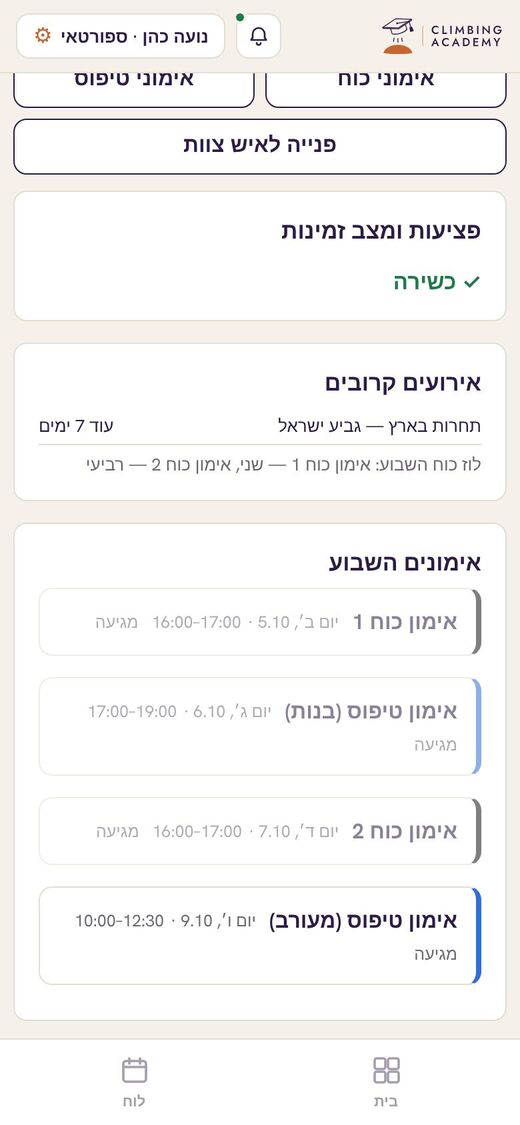
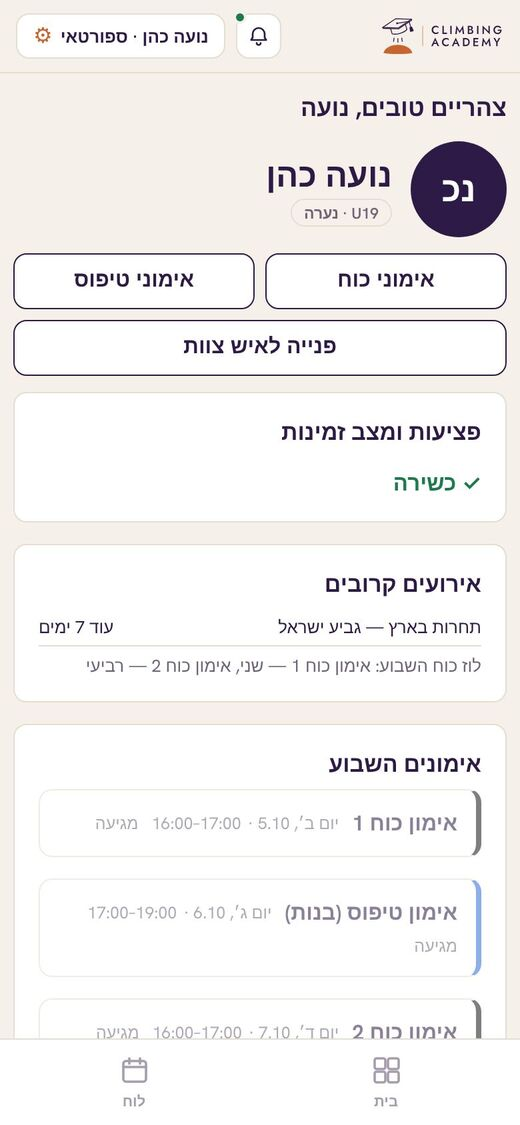
Site: 'try it' cards redesigned for desktop (large crisp screenshot on top, button), centered heading; athlete shot from the top of the screen
Claude-Session: https://claude.ai/code/session_01EyUwJFUS123xTm3Yd6dZgp

diff --git a/style.css b/style.css
@@ -92,6 +92,7 @@ p { margin: 0; }
 .pillar { display: grid; grid-template-columns: 72px 1fr; align-items: center; column-gap: 24px; background: var(--card); border: 1px solid var(--border); border-radius: var(--radius); padding: 22px 28px; transition: transform .25s ease, box-shadow .25s ease; }
 .pillar:hover { transform: translateY(-2px); box-shadow: var(--shadow); }
 .try-card:hover { transform: translateY(-3px); box-shadow: 0 2px 4px rgba(20, 36, 59, .06), 0 14px 32px rgba(20, 36, 59, .1); }
+.try-card:hover .try-go { border-color: var(--navy); }
 .pillar-letter { grid-row: span 2; font-family: var(--font-brand); font-size: 60px; font-weight: 500; line-height: 1; color: var(--copper); text-align: center; }
 .js .pillar-letter { color: #E6D6C6; transition: color .6s ease; }
 .js .pillar.is-lit .pillar-letter { color: var(--copper); }
@@ -120,19 +121,27 @@ p { margin: 0; }
   .fw-cta { display: inline-flex; }
 }
 
-/* try it: links to the animated demos (2026-10-10) */
+/* try it: links to the animated demos (2026-10-10). Phone: screenshot beside the text; wider: screenshot on top. */
+.try-head { text-align: center; margin-inline: auto; }
+.try-head .section-sub { text-wrap: balance; }
 .tries { display: grid; gap: 20px; }
-@media (min-width: 760px) { .tries { grid-template-columns: 1fr 1fr; gap: 24px; } }
-.try-card { display: grid; grid-template-columns: 120px 1fr; gap: 18px; align-items: center; background: var(--card); border: 1px solid var(--border); border-radius: 18px; padding: 16px; text-decoration: none; box-shadow: var(--shadow); transition: transform .25s ease, box-shadow .25s ease; }
+.try-card { display: grid; grid-template-columns: 120px 1fr; gap: 18px; align-items: center; background: var(--card); border: 1px solid var(--border); border-radius: 18px; padding: 16px; text-decoration: none; color: var(--navy); box-shadow: var(--shadow); overflow: hidden; transition: transform .25s ease, box-shadow .25s ease; }
 .try-card:focus-visible { outline: 3px solid var(--copper); outline-offset: 3px; }
 .try-shot img { width: 100%; height: auto; aspect-ratio: 520 / 700; object-fit: cover; object-position: top; border-radius: 12px; border: 1px solid var(--border); }
 .try-body { display: flex; flex-direction: column; gap: 4px; min-width: 0; }
 .try-tag { align-self: flex-start; font-size: 13px; font-weight: 700; color: var(--copper-text); background: #F6EADF; border-radius: 999px; padding: 2px 12px; }
 .try-title { font-size: 20px; font-weight: 800; line-height: 1.3; margin-top: 4px; }
 .try-text { color: var(--muted); font-size: 15.5px; line-height: 1.5; }
-.try-go { margin-top: 8px; font-weight: 700; color: var(--navy); }
-@media (min-width: 1000px) { .try-card { grid-template-columns: 150px 1fr; padding: 20px; gap: 24px; } }
-.try-note { margin-top: 18px; text-align: center; font-size: 13.5px; color: var(--muted); }
+.try-go { align-self: flex-start; margin-top: 10px; }
+@media (min-width: 760px) {
+  .tries { grid-template-columns: 1fr 1fr; gap: 24px; max-width: 920px; margin-inline: auto; }
+  .try-card { grid-template-columns: 1fr; gap: 0; padding: 0; align-items: stretch; }
+  .try-shot { display: flex; justify-content: center; height: 300px; overflow: hidden; padding: 32px 32px 0; background: #EFE9DF; border-bottom: 1px solid var(--border); }
+  .try-shot img { width: 260px; aspect-ratio: auto; border-radius: 18px 18px 0 0; border-bottom: 0; box-shadow: 0 20px 40px -24px rgba(20, 36, 59, .35); }
+  .try-body { padding: 24px 28px 28px; gap: 6px; }
+  .try-title { font-size: 22px; }
+  .try-text { font-size: 16px; }
+}
 .case-link { align-self: flex-start; margin-top: 18px; font-weight: 700; color: var(--navy); text-decoration: none; border-bottom: 1.5px solid var(--copper); }
 
 /* dark band */

diff --git a/index.html b/index.html
@@ -144,32 +144,31 @@
   <!-- TRY IT: the real academy system (2026-10-10) -->
   <section id="try" class="section">
     <div class="wrap">
-      <div class="section-head reveal">
+      <div class="section-head try-head reveal">
         <p class="eyebrow">נסו בעצמכם</p>
         <h2>ככה זה נראה באמת</h2>
-        <p class="section-sub">הדגמה מונפשת מתוך המערכת של אקדמיית הטיפוס בוינגייט. לחצו על הפעל וצפו, או געו במסך בעצמכם.</p>
+        <p class="section-sub">הדגמה מונפשת מתוך המערכת של אקדמיית הטיפוס בוינגייט, עם נתונים לדוגמה. צופים, או לוחצים על המסך בעצמכם.</p>
       </div>
       <div class="tries">
         <a class="try-card reveal" href="guides/climbing-academy/coach.html?demo">
-          <span class="try-shot"><img src="assets/demo/coach.jpg" alt="" width="520" height="1125" loading="lazy"></span>
+          <span class="try-shot"><img src="assets/demo/coach.jpg" srcset="assets/demo/coach.jpg 520w, assets/demo/coach@2x.jpg 780w" sizes="(min-width: 760px) 260px, 120px" alt="" width="520" height="1125" loading="lazy"></span>
           <span class="try-body">
             <span class="try-tag">מצד המאמן</span>
             <span class="try-title">הספורטאים, הלוח והסיכומים</span>
             <span class="try-text">סיכום פגישה, מי מגיע לאימון, בקשת היעדרות ומעקב פציעות.</span>
-            <span class="try-go">פתחו הדגמה ←</span>
+            <span class="try-go btn btn-ghost btn-sm">פתחו הדגמה ←</span>
           </span>
         </a>
         <a class="try-card reveal" href="guides/climbing-academy/athlete.html?demo">
-          <span class="try-shot"><img src="assets/demo/athlete.jpg" alt="" width="520" height="1125" loading="lazy"></span>
+          <span class="try-shot"><img src="assets/demo/athlete.jpg" srcset="assets/demo/athlete.jpg 520w, assets/demo/athlete@2x.jpg 780w" sizes="(min-width: 760px) 260px, 120px" alt="" width="520" height="1125" loading="lazy"></span>
           <span class="try-body">
             <span class="try-tag">מצד הספורטאי</span>
             <span class="try-title">האימונים שלי, בטלפון</span>
             <span class="try-text">האימונים של השבוע, דיווח אימון כוח, סיכומי פגישות ופנייה לצוות.</span>
-            <span class="try-go">פתחו הדגמה ←</span>
+            <span class="try-go btn btn-ghost btn-sm">פתחו הדגמה ←</span>
           </span>
         </a>
       </div>
-      <p class="try-note reveal">נתונים לדוגמה. השמות והספורטאים בהדגמה אינם אמיתיים.</p>
     </div>
   </section>
 
